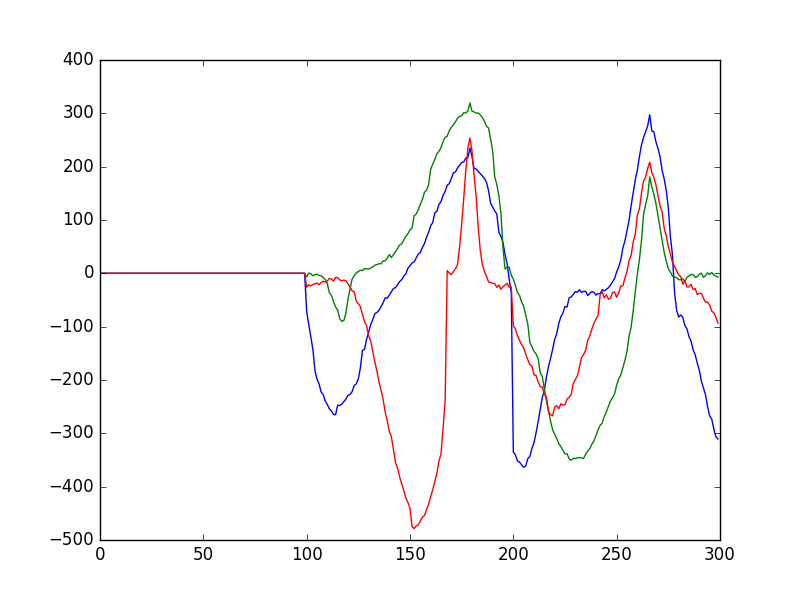
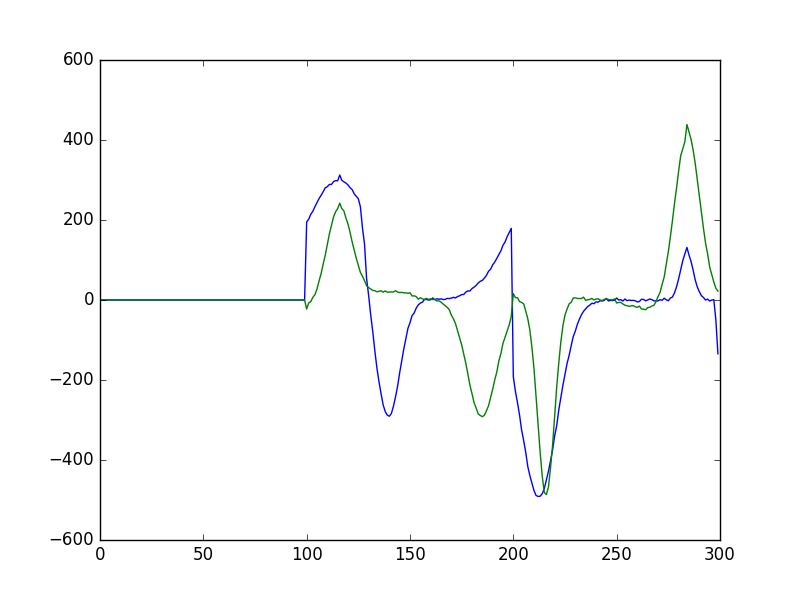
2 cells

diff --git a/k_means_multi.py b/k_means_multi.py
@@ -105,7 +105,7 @@ def process_spike_multi(signal_matrix,threshold, window_height=2,window_len=100)
 ########################################################
 #test data
 num_electron=2
-num_cell=3
+num_cell=2
 time=30000
 noise_level=0.01
 overlap_level=1000
@@ -121,7 +121,7 @@ matrix_electron, boolean, spike_shape_parameter=multi_electrons_generator(num_el
 
 a=process_spike_multi(matrix_electron,threshold)
 
-num_cluster=3
+num_cluster=2
 interations=20
 
 	# apply k-means
